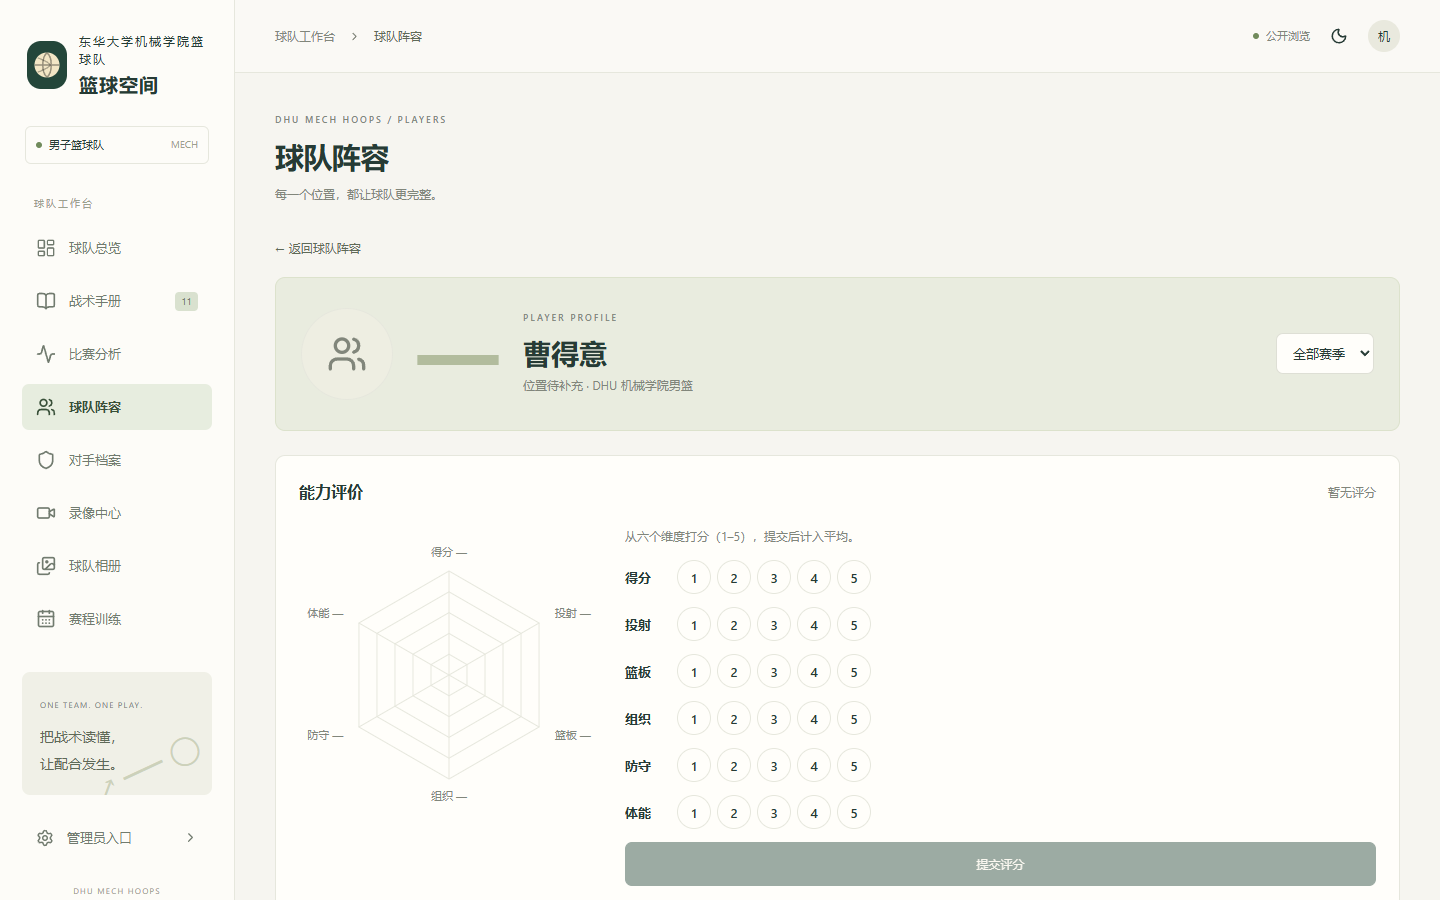
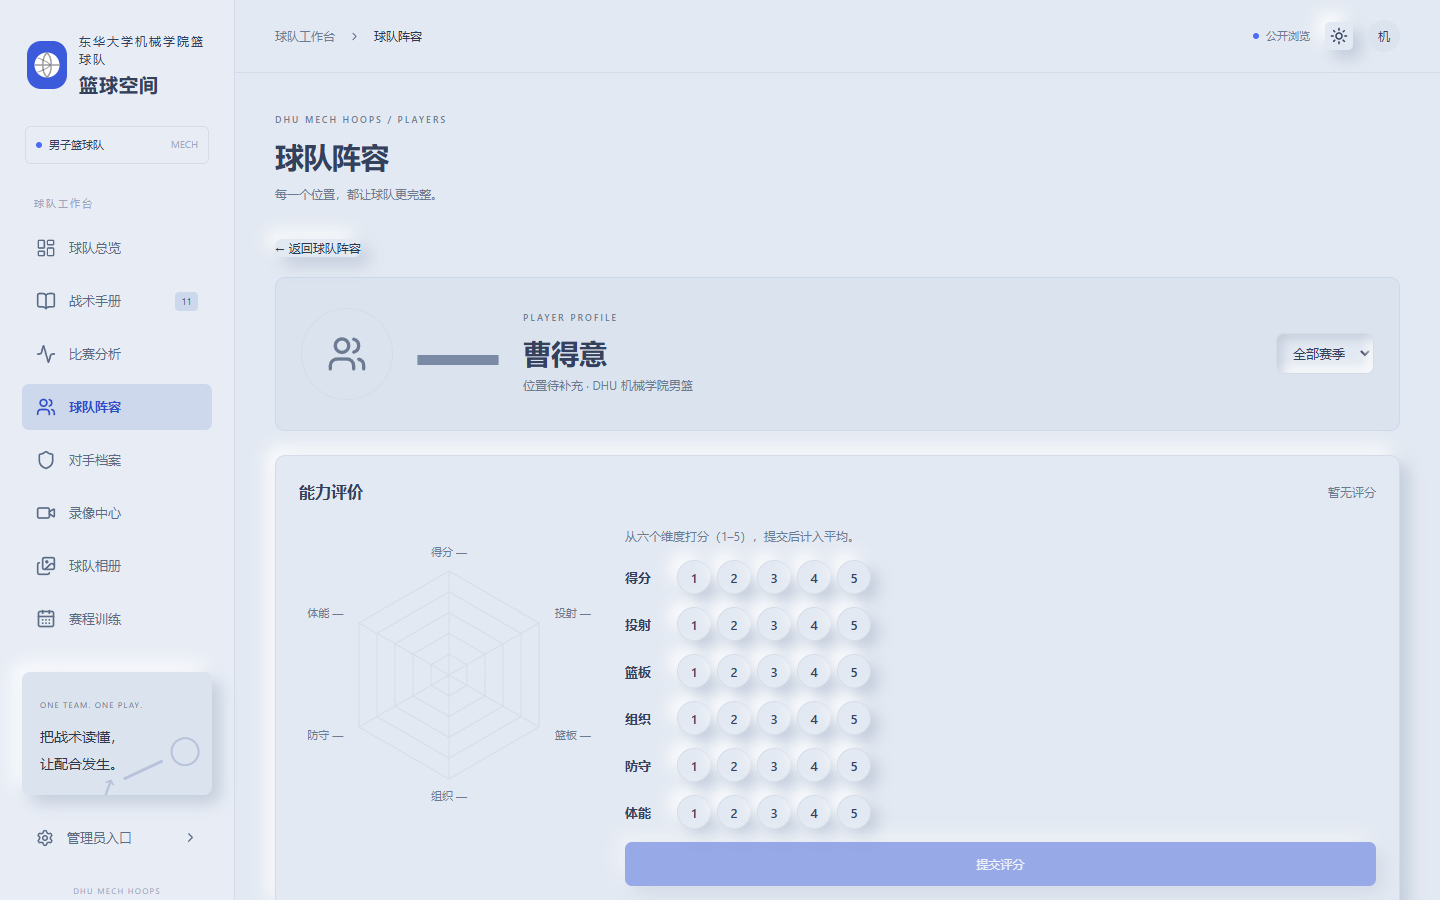
docs(截图): README 截图改用蓝白新拟物主题，更新录像三分类说明

diff --git a/README.en.md b/README.en.md
@@ -24,7 +24,7 @@
 | ⭐ 6-Dimension Ratings | Anonymous visitor scoring (scoring / shooting / rebounding / playmaking / defense / athleticism) averaged into a radar chart |
 | 🤖 AI Advice | DeepSeek generates four-section advice (role / offense / defense / training focus) from data + ratings + position |
 | 🎯 Opponent Profiles | Manual scouting notes + preparation advice |
-| 🎬 Video Center | Bilibili streaming playback (paste a BV id / link), no cloud storage cost |
+| 🎬 Video Center | Three sub-modules (official / training / tactics-learning videos), Bilibili streaming, no cloud storage cost |
 | 🖼 Team Album | Album grouping, covers, photo lightbox |
 | 📅 Schedule & Training | Match schedule & daily training (time, location, dress code), with a homepage "upcoming matches" section |
 | 💬 Reviews & Messages | Match reviews and player message board (visitor, name required) |

diff --git a/README.md b/README.md
@@ -25,7 +25,7 @@
 | ⭐ 六维能力 | 访客匿名评分（得分/投射/篮板/组织/防守/体能），平均后生成六方图 |
 | 🤖 AI 打法建议 | DeepSeek 按「数据 + 评分 + 位置」生成四段式建议（角色定位/进攻/防守/训练重点） |
 | 🎯 对手档案 | 人工观察记录 + 备战建议 |
-| 🎬 录像中心 | B站流媒体播放（粘贴 BV 号 / 链接），不占云端存储 |
+| 🎬 录像中心 | 正赛 / 训练赛 / 战术学习三个子模块，B站流媒体播放，不占云端存储 |
 | 🖼 球队相册 | 相册分组、封面、照片灯箱 |
 | 📅 赛程训练 | 比赛与日常训练安排（时间、地点、着装要求），首页展示近期赛程 |
 | 💬 复盘留言 | 比赛队员复盘、球员留言板（访客填写需填姓名） |

diff --git a/CHANGELOG.md b/CHANGELOG.md
@@ -7,6 +7,11 @@
 
 ## 2026-10-23
 
+### 🎬 录像中心三分类 · Video Center Categories
+
+- 录像中心拆分为正赛 / 训练赛 / 战术学习三个子模块；视频新增分类字段，战术手册底部挂「战术学习视频」。
+  *The video center is split into three sub-modules (official / training / tactics-learning); videos now carry a category, and tactics-learning videos also appear at the bottom of the tactics manual.*
+
 ### 🔐 管理员两级权限 · Two-tier Admin Roles
 
 - 新增超级管理员（首个邮箱验证用户）与普通管理员两级权限；普通管理员申请、超管审批通过后获得数据/上传权限，仅超管能审批。
